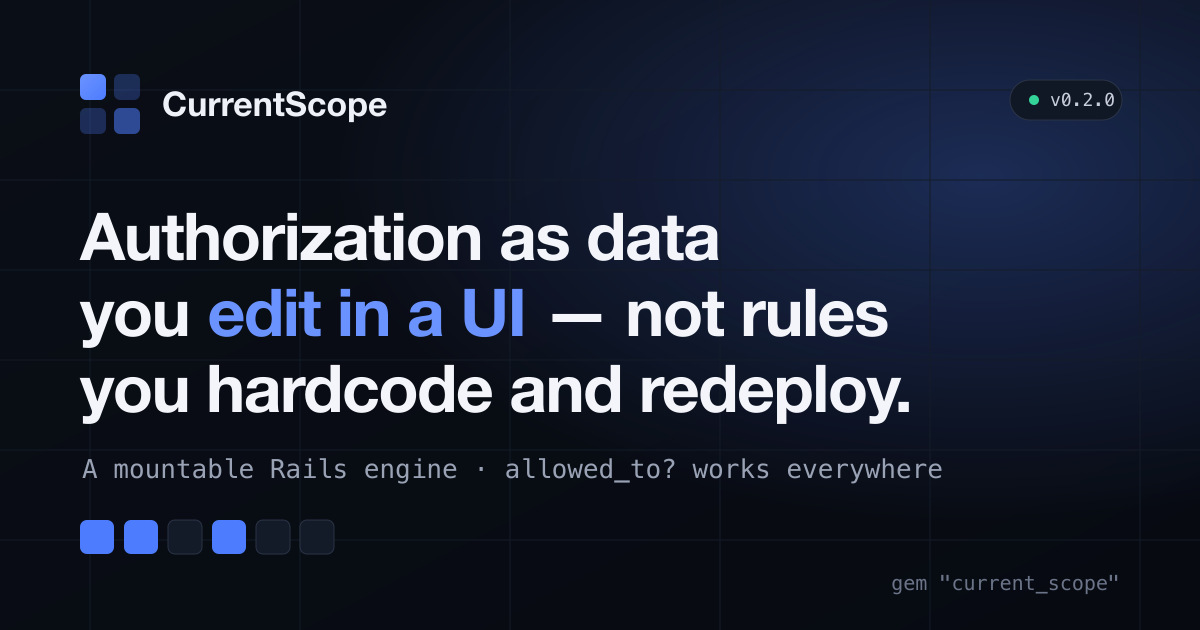
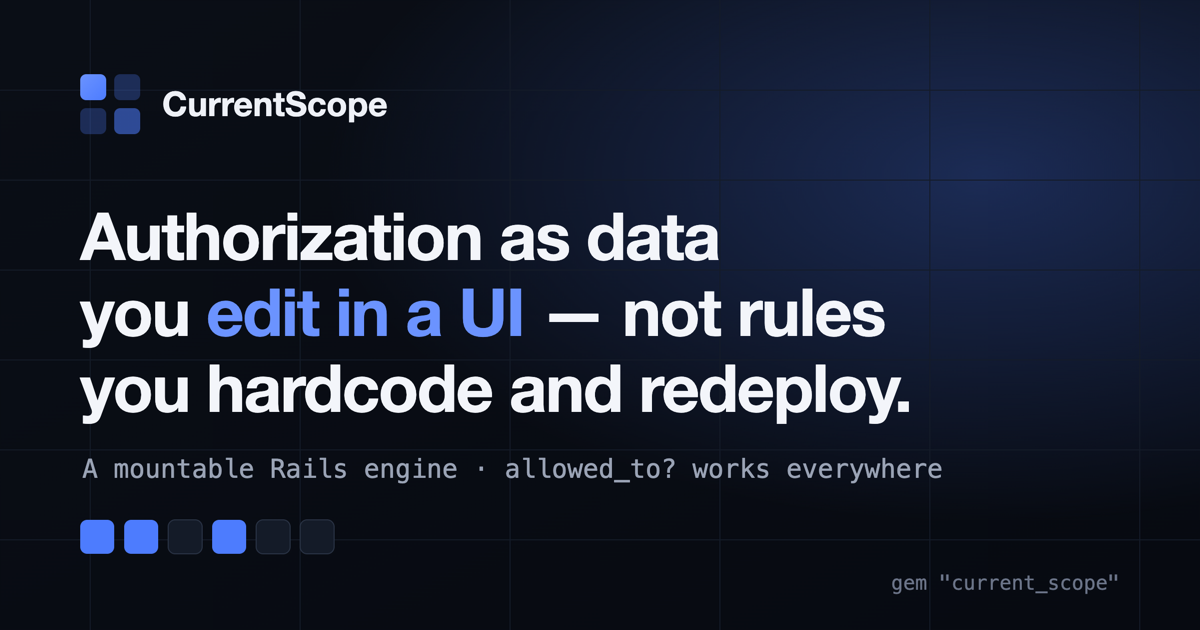
fix(ie-review): pre-PR gate round 2 — lens findings
- Landing hero now carries the not-production-ready notice (experience
  P1: the install CTA was one click from adding the gem without ever
  seeing the disclaimer README/quickstart both carry).
- Deploy job requires github.ref == refs/heads/main, so a
  workflow_dispatch from a feature branch builds but cannot deploy
  (predictability: the comment promised main-only deploys).
- Link assertion inverted: any non-absolute/non-anchor link in the
  generated checklist now fails the build, not just four known prefixes.
- _config.yml documents the one-liner to generate the checklist page
  for local preview (the gitignored page surprised local builds).
- og.svg version pill removed and og.png re-rendered (1200x630) — it
  had already drifted to v0.2.0; a baked version can only go stale.
- Anchors added: landing report-mode link and configuration.md
  'checklist § 1' now land on their promised sections.
- Unused docs/site/assets/logo.svg deleted (nothing referenced it;
  the mark exists inline where used).

Verified: Jekyll rebuild green, link assertion passes on today's
checklist, hero banner + anchors eyeballed in the browser.

Claude-Session: https://claude.ai/code/session_01Ntc23uJh1ruMsYVhGo9xC7

diff --git a/docs/site/index.html b/docs/site/index.html
@@ -361,6 +361,11 @@
         <svg width="16" height="16" viewBox="0 0 24 24" fill="none" stroke="currentColor" stroke-width="2" aria-hidden="true"><rect x="9" y="9" width="12" height="12" rx="2"/><path d="M5 15V5a2 2 0 0 1 2-2h10"/></svg>
       </button>
     </div>
+    <p style="margin-top:14px;font-size:13.5px;color:var(--dim)">
+      <strong style="color:#e8955c">Not production-ready yet</strong> — ready for experimentation and
+      spiking. Security-relevant work is still open:
+      <a href="https://github.com/davidteren/current_scope/issues" rel="noopener">issue tracker</a>.
+    </p>
   </div>
 
   <!-- signature interactive permission grid -->
@@ -635,7 +640,7 @@ bin/rails current_scope:install:migrations &amp;&amp; bin/rails db:migrate</pre>
     </div></div>
   </div>
   <p class="reveal" style="margin-top:26px;color:var(--dim);font-size:14px">
-    Adding this to an app that already has users? Run <a href="quickstart.html">report mode</a> before enforcing —
+    Adding this to an app that already has users? Run <a href="quickstart.html#4-existing-app-run-report-mode-first">report mode</a> before enforcing —
     and read the <a href="security-checklist.html">security &amp; production checklist</a> before you ship.
   </p>
 </div></section>

diff --git a/docs/site/configuration.md b/docs/site/configuration.md
@@ -28,7 +28,7 @@ a mismatch cannot hide from. This page is the map.
 |---|---|---|
 | `enforcement` | `:enforce` | `:enforce` = a denial is a 403, the only production posture. `:report` = log missing grants and let requests through (`access.would_deny` ledger rows; the adoption ramp). Relaxes *only* "no grant" — SoD, the console, and the impersonation gate still refuse. Unknown value raises at boot. |
 | `collection_read_actions` | `["index"]` | Record-less actions whose gate derives its answer from the scoped list (`scope_for`), so gate and list cannot disagree. Read-only names only — a full key raises; a mutating name warns loudly. |
-| `excluded_controllers` | rails/active_storage/action_mailbox/turbo/current_scope internals | Regexps excluded from the permission grid. Excluded controllers can't be granted, so they must also skip the gate — and are then **unprotected by CurrentScope** ([checklist § 1](security-checklist.md)). |
+| `excluded_controllers` | rails/active_storage/action_mailbox/turbo/current_scope internals | Regexps excluded from the permission grid. Excluded controllers can't be granted, so they must also skip the gate — and are then **unprotected by CurrentScope** ([checklist § 1](security-checklist.md#1-excluded--skipped--unprotected)). |
 | `parent_controller` | `"::ApplicationController"` | What the management UI inherits from (host auth and before_actions). |
 
 ## Separation of duties